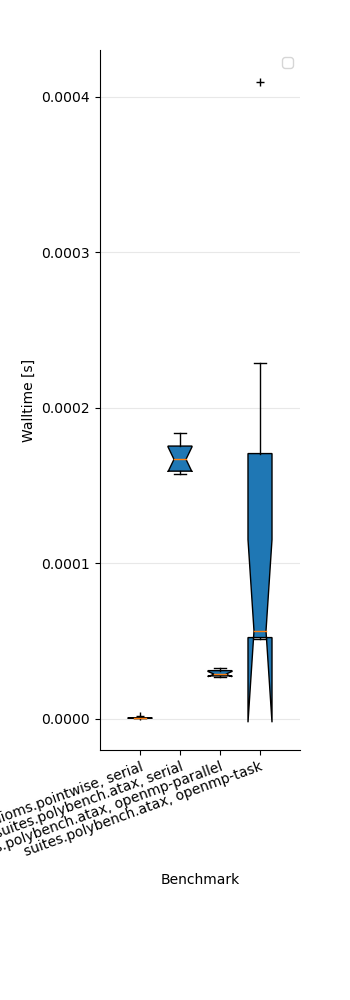
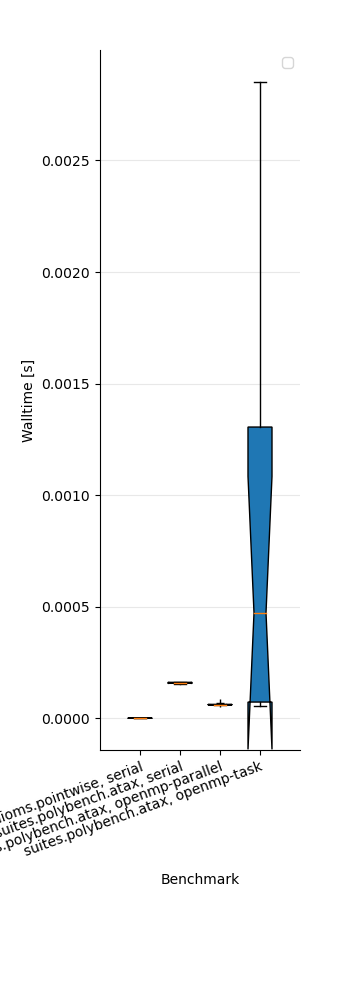
Leftovers

diff --git a/benchmark.py b/benchmark.py
@@ -241,7 +241,7 @@ def main(argv):
 
 
         # Load all available benchmarks
-        if args.verify or args.bench or args.probe:
+        if args.verify or args.bench or args.probe or  (not args.verify and args.bench is None and not args.probe):
             for config in configs:
                 load_register_file(config.builddir / 'benchmarks' / 'benchlist.py')
         
@@ -258,7 +258,7 @@ def main(argv):
             [refconfig] = (c for c in configs if c.name == 'REF')
         except:
             refconfig = None
-        runner.subcommand_run(None,args,srcdir=thisscriptdir,buildondemand=not args.build,refbuilddir= refconfig.builddir if refconfig else None,filterfunc=no_ref,resultdir =resultdir)
+        runner.subcommand_run(None,args,srcdir=thisscriptdir,buildondemand=not args.build,builddirs=[config.builddir for config in configs], refbuilddir= refconfig.builddir if refconfig else None,filterfunc=no_ref,resultdir =resultdir)
 
 
         #if args.verify:
@@ -279,7 +279,7 @@ def main(argv):
         
 
         #if args.evaluate:
-        #    if not resultfiles:
+        #   if not resultfiles:
         #        assert False, "TODO: Lookup last (successful) results dir"
         #    if len(configs) == 1:
         #        runner.evaluate(resultfiles)

diff --git a/rosetta/lib/runner.py b/rosetta/lib/runner.py
@@ -1511,9 +1511,6 @@ def subcommand_run(parser,args,srcdir,buildondemand=False,builddirs=None,refbuil
             assert args.problemsizefile , "Requires to set a problemsizefile to set"
             run_probe(problemsizefile=args.problemsizefile, limit_walltime=args.limit_walltime, limit_rss=args.limit_rss, limit_alloc=args.limit_alloc)
 
-
-
-
    
 
         if verify:
@@ -1528,7 +1525,10 @@ def subcommand_run(parser,args,srcdir,buildondemand=False,builddirs=None,refbuil
                 fig.savefig(fname=args.boxplot)
                 fig.canvas.draw_idle() 
 
-            evaluate(resultfiles)
+            if len(builddirs)> 1:
+                results_compare(resultfiles, compare_by="configname", compare_val=["walltime"])
+            else:
+                evaluate(resultfiles)
 
 
 

diff --git a/rosetta/bin/gen-stage1.py b/rosetta/bin/gen-stage1.py
@@ -12,7 +12,7 @@ import importlib.util
 
 
 
-print(pathlib.Path(__file__).parent.absolute() / 'lib')
+#print(pathlib.Path(__file__).parent.absolute() / 'lib')
 sys.path.insert(0, str(pathlib.Path(__file__).parent.parent.absolute() / 'lib'))
 from support import *
 import rosetta
